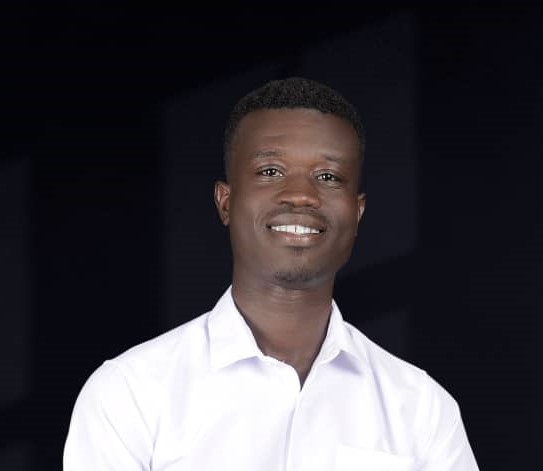
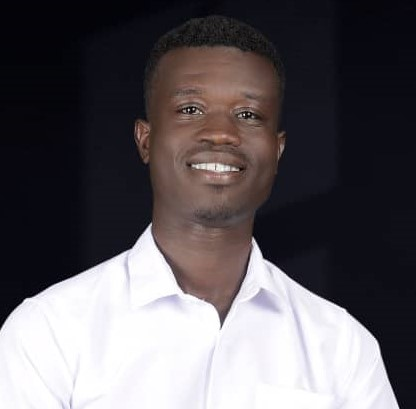
update image

diff --git a/style.css b/style.css
@@ -32,10 +32,13 @@ body {
      CONTAINER
      =============================== */
 .container {
-  width: 90%;
   max-width: 1000px;
   margin: 0 auto;
   padding: 40px 0;
+}
+
+.nav-container {
+  padding: 0;
 }
 
 /* ===============================
@@ -44,7 +47,7 @@ body {
 .navbar {
   background: rgba(13, 27, 42, 0.9);
   backdrop-filter: blur(10px);
-  padding: 20px 0;
+
   position: sticky;
   top: 0;
   z-index: 1000;
@@ -85,8 +88,44 @@ body {
 .hero {
   display: flex;
   flex-direction: column;
-  justify-content: start;
-  min-height: 50vh;
+  justify-content: center;
+  min-height: 100vh;
+  padding: 2rem 0;
+}
+
+.hero-container {
+  display: flex;
+  align-items: center;
+  justify-content: space-between;
+  gap: 2rem;
+  width: 100%;
+}
+
+.hero-content {
+  flex: 1;
+  max-width: 600px;
+}
+
+.hero-image {
+  flex: 1;
+  display: flex;
+  justify-content: center;
+  align-items: center;
+}
+
+.hero-image img {
+  max-width: 100%;
+  height: auto;
+  border-radius: 50%;
+  max-height: 400px;
+  object-fit: cover;
+  aspect-ratio: 1/1;
+  box-shadow: 0 10px 30px -15px var(--color-accent);
+  transition: transform 0.3s ease;
+}
+
+.hero-image img:hover {
+  transform: scale(1.05);
 }
 
 .greeting {
@@ -109,12 +148,41 @@ body {
 .hero-subtitle {
   color: var(--color-text-secondary);
   margin: 10px 0;
-  font-size: clamp(1.25rem, 5vw, 2.5rem);
-  min-height: 1.2em; /* Prevents layout shift */
+  font-size: clamp(1rem, 3vw, 2rem);
+  min-height: 1.2em;
   display: flex;
-  align-items: center;
+  /* align-items: center; */
 }
 
+/* Responsive adjustments */
+@media (max-width: 768px) {
+  .hero-container {
+    flex-direction: column;
+    text-align: center;
+  }
+
+  .hero-content {
+    order: 2;
+    max-width: 100%;
+  }
+
+  .hero-image {
+    order: 1;
+    margin-bottom: 2rem;
+  }
+
+  .hero-title,
+  .hero-subtitle {
+    width: 100%;
+    justify-content: center;
+  }
+
+  .hero-subtitle {
+    justify-content: center;
+  }
+}
+
+/* Rest of your existing CSS remains the same */
 .typewriter-text {
   display: inline-block;
 }

diff --git a/index.html b/index.html
@@ -15,7 +15,7 @@
   </head>
   <body>
     <header class="navbar">
-      <div class="container" style="display: flex; justify-content: space-between; align-items: center">
+      <div class="container nav-container" style="display: flex; justify-content: space-between; align-items: center">
         <h1 class="logo">BE.</h1>
 
         <!-- Wrap menu-toggle and nav together -->
@@ -38,14 +38,19 @@
     </header>
 
     <section id="hero" class="hero">
-      <div class="container">
-        <p class="greeting">Hi, my name is</p>
-        <h1 class="hero-title">Bongomin Erick</h1>
-        <h2 class="hero-subtitle">
-          <span class="typewriter-text"></span>
-          <span class="cursor">|</span>
-        </h2>
-        <a href="#projects" class="btn">Check out my work</a>
+      <div class="container hero-container">
+        <div class="hero-content">
+          <p class="greeting">Hi, my name is</p>
+          <h1 class="hero-title">Bongomin Erick</h1>
+          <h2 class="hero-subtitle">
+            <span class="typewriter-text"></span>
+            <span class="cursor">|</span>
+          </h2>
+          <a href="#contact" class="btn">Let's Work</a>
+        </div>
+        <div class="hero-image">
+          <img src="profile-pic.jpg" alt="Bongomin Erick" />
+        </div>
       </div>
     </section>
 
